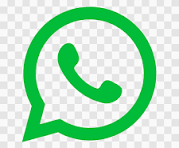
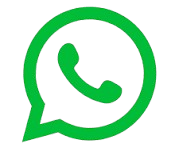
update lagi

diff --git a/admin/katalog.php b/admin/katalog.php
@@ -11,6 +11,27 @@ if (!is_dir('../assets/uploads')) {
     mkdir('../assets/uploads', 0777, true);
 }
 
+// --- LOGIKA TAMBAH KATEGORI BARU ---
+if (isset($_POST['add_kategori'])) {
+    $nama_kat = mysqli_real_escape_string($conn, $_POST['nama_kategori']);
+    mysqli_query($conn, "INSERT INTO kategori (nama_kategori) VALUES ('$nama_kat')");
+    echo '<script>window.location="katalog.php"</script>';
+}
+
+// --- LOGIKA HAPUS KATEGORI (TAMBAHAN PENTING) ---
+if (isset($_GET['hapus_kat'])) {
+    $id_kat = $_GET['hapus_kat'];
+    // Cek dulu apakah kategori ini masih dipakai oleh produk
+    $cek_produk = mysqli_query($conn, "SELECT id FROM katalog_produk WHERE kategori = '$id_kat'");
+    if(mysqli_num_rows($cek_produk) > 0) {
+        echo '<script>alert("Kategori gagal dihapus karena masih digunakan oleh produk!"); window.location="katalog.php"</script>';
+    } else {
+        mysqli_query($conn, "DELETE FROM kategori WHERE id = '$id_kat'");
+        echo '<script>window.location="katalog.php"</script>';
+    }
+}
+
+// --- LOGIKA TAMBAH PRODUK ---
 if (isset($_POST['submit_katalog'])) {
     $nama = mysqli_real_escape_string($conn, $_POST['nama_produk']);
     $kategori = mysqli_real_escape_string($conn, $_POST['kategori']);
@@ -38,6 +59,7 @@ if (isset($_POST['submit_katalog'])) {
     }
 }
 
+// --- LOGIKA HAPUS PRODUK ---
 if (isset($_GET['hapus'])) {
     $id_hapus = $_GET['hapus'];
     $produk = mysqli_query($conn, "SELECT gambar FROM katalog_produk WHERE id = '$id_hapus'");
@@ -98,11 +120,8 @@ if (isset($_GET['hapus'])) {
                 <h2 class="text-xl font-bold text-gray-800">Kelola Katalog Produk</h2>
                 <p class="text-sm text-gray-500">Tambah atau hapus etalase produk SOTHO</p>
             </div>
-            <div class="flex items-center bg-gray-50 px-4 py-2 rounded-full border border-gray-200">
-                <div class="w-8 h-8 bg-red-600 rounded-full flex items-center justify-center text-white font-bold mr-3">
-                    <?php echo substr($_SESSION['admin_global']->nama_lengkap, 0, 1); ?>
-                </div>
-                <span class="font-bold text-sm text-gray-700"><?php echo $_SESSION['admin_global']->nama_lengkap; ?></span>
+            <div class="flex items-center bg-gray-50 px-6 py-2 rounded-full border border-gray-200">
+            <span class="font-bold text-sm text-gray-700 uppercase tracking-widest">ADMIN</span>
             </div>
         </header>
 
@@ -120,12 +139,18 @@ if (isset($_GET['hapus'])) {
                             <input type="text" name="nama_produk" class="w-full px-4 py-3 border border-gray-300 rounded-xl focus:ring-2 focus:ring-red-500 outline-none bg-gray-50" required placeholder="Cth: Kanal C 0.75">
                         </div>
                         <div class="mb-4">
-                            <label class="block text-gray-700 font-semibold mb-2 text-sm">Kategori</label>
-                            <select name="kategori" class="w-full px-4 py-3 border border-gray-300 rounded-xl focus:ring-2 focus:ring-red-500 outline-none bg-gray-50" required>
+                            <div class="flex justify-between items-center mb-2">
+                                <label class="block text-gray-700 font-semibold text-sm">Kategori</label>
+                                <button type="button" onclick="document.getElementById('modalKategori').style.display='flex'" class="text-blue-600 text-xs font-bold hover:underline">+ Kelola Kategori</button>
+                            </div>
+                            <select name="kategori" class="w-full px-4 py-3 border border-gray-300 rounded-xl focus:ring-2 focus:ring-red-500 outline-none bg-gray-50 cursor-pointer" required>
                                 <option value="">Pilih Kategori</option>
-                                <option value="Rangka Atap">Rangka Atap</option>
-                                <option value="Atap Spandek">Atap Spandek</option>
-                                <option value="Aksesoris">Aksesoris</option>
+                                <?php
+                                $kat = mysqli_query($conn, "SELECT * FROM kategori ORDER BY nama_kategori ASC");
+                                while($k = mysqli_fetch_array($kat)){
+                                    echo '<option value="'.$k['id'].'">'.$k['nama_kategori'].'</option>';
+                                }
+                                ?>
                             </select>
                         </div>
                         <div class="mb-4">
@@ -134,7 +159,7 @@ if (isset($_GET['hapus'])) {
                         </div>
                         <div class="mb-6">
                             <label class="block text-gray-700 font-semibold mb-2 text-sm">Upload Gambar Produk</label>
-                            <input type="file" name="gambar" class="w-full px-3 py-2 border border-gray-300 rounded-xl text-sm bg-gray-50" required accept="image/png, image/jpeg, image/jpg, image/webp">
+                            <input type="file" name="gambar" class="w-full px-3 py-2 border border-gray-300 rounded-xl text-sm bg-gray-50" required accept="image/*">
                         </div>
                         <button type="submit" name="submit_katalog" class="w-full bg-gray-900 hover:bg-gray-800 text-white font-bold py-3 rounded-xl transition duration-300 shadow">Simpan Produk</button>
                     </form>
@@ -158,7 +183,11 @@ if (isset($_GET['hapus'])) {
                             <tbody>
                                 <?php
                                 $no = 1;
-                                $produk = mysqli_query($conn, "SELECT * FROM katalog_produk ORDER BY id DESC");
+                                $sql_get = "SELECT katalog_produk.*, kategori.nama_kategori 
+                                            FROM katalog_produk 
+                                            LEFT JOIN kategori ON katalog_produk.kategori = kategori.id 
+                                            ORDER BY katalog_produk.id DESC";
+                                $produk = mysqli_query($conn, $sql_get);
                                 if (mysqli_num_rows($produk) > 0) {
                                     while ($row = mysqli_fetch_array($produk)) {
                                 ?>
@@ -169,7 +198,7 @@ if (isset($_GET['hapus'])) {
                                     </td>
                                     <td class="p-4">
                                         <p class="font-bold text-gray-800 mb-1"><?php echo $row['nama_produk']; ?></p>
-                                        <span class="bg-red-100 text-red-700 text-xs px-2 py-1 rounded font-semibold"><?php echo $row['kategori']; ?></span>
+                                        <span class="bg-blue-50 text-blue-700 text-[10px] px-2 py-1 rounded font-bold uppercase tracking-wider"><?php echo $row['nama_kategori']; ?></span>
                                     </td>
                                     <td class="p-4 text-center">
                                         <a href="?hapus=<?php echo $row['id']; ?>" onclick="return confirm('Yakin ingin menghapus produk ini?')" class="inline-block bg-red-50 text-red-600 px-4 py-2 rounded-lg hover:bg-red-600 hover:text-white text-sm font-bold transition shadow-sm">Hapus</a>
@@ -186,6 +215,39 @@ if (isset($_GET['hapus'])) {
                 </div>
             </div>
         </main>
+    </div>
+
+
+    <div id="modalKategori" class="fixed inset-0 bg-black/50 z-[100] hidden items-center justify-center p-4">
+        <div class="bg-white rounded-3xl p-8 max-w-md w-full shadow-2xl">
+            <h3 class="text-xl font-bold mb-6 flex items-center">📂 Kelola Kategori</h3>
+            
+            <div class="mb-6 max-h-48 overflow-y-auto border rounded-xl p-4 bg-gray-50">
+                <p class="text-xs font-bold text-gray-400 uppercase mb-3">Daftar Kategori Saat Ini:</p>
+                <div class="space-y-2">
+                    <?php
+                    $kat_list = mysqli_query($conn, "SELECT * FROM kategori ORDER BY nama_kategori ASC");
+                    while($kl = mysqli_fetch_array($kat_list)){
+                    ?>
+                    <div class="flex justify-between items-center bg-white p-2 rounded-lg border shadow-sm">
+                        <span class="text-sm font-medium text-gray-700"><?php echo $kl['nama_kategori']; ?></span>
+                        <a href="?hapus_kat=<?php echo $kl['id']; ?>" onclick="return confirm('Hapus kategori ini?')" class="text-red-500 hover:text-red-700 p-1">
+                            🗑
+                        </a>
+                    </div>
+                    <?php } ?>
+                </div>
+            </div>
+
+            <form action="" method="POST">
+                <label class="text-xs font-bold text-gray-400 uppercase">Tambah Baru:</label>
+                <input type="text" name="nama_kategori" class="w-full px-4 py-3 border rounded-xl mb-4 mt-2 outline-none focus:ring-2 focus:ring-blue-500" placeholder="Nama kategori baru..." required>
+                <div class="flex gap-4">
+                    <button type="button" onclick="document.getElementById('modalKategori').style.display='none'" class="flex-1 bg-gray-100 py-3 rounded-xl font-bold">Tutup</button>
+                    <button type="submit" name="add_kategori" class="flex-1 bg-blue-600 text-white py-3 rounded-xl font-bold">Simpan</button>
+                </div>
+            </form>
+        </div>
     </div>
 </body>
 </html>

diff --git a/admin/index.php b/admin/index.php
@@ -109,7 +109,7 @@ $jml_proyek = mysqli_num_rows(mysqli_query($conn, "SELECT id FROM portofolio_pro
 
     <aside class="w-64 bg-gray-900 text-white flex flex-col shadow-2xl hidden md:flex z-20 shrink-0">
         <div class="h-20 flex items-center justify-center border-b border-gray-800">
-            <h1 class="text-2xl font-black tracking-wider">NIM<span class="text-red-500">ADMIN</span></h1>
+            <h1 class="text-2xl font-black tracking-wider">NIM<span class="text-red-500"> ADMIN</span></h1>
         </div>
         <div class="flex-1 overflow-y-auto py-6 px-4 space-y-2">
             <p class="text-xs font-bold text-gray-500 uppercase tracking-widest mb-4 ml-2">Menu Utama</p>
@@ -141,11 +141,8 @@ $jml_proyek = mysqli_num_rows(mysqli_query($conn, "SELECT id FROM portofolio_pro
                 <h2 class="text-xl font-bold text-gray-800">Dashboard Overview</h2>
                 <p class="text-sm text-gray-500">Pusat Kendali Website PT Nusa Indah Metalindo</p>
             </div>
-            <div class="flex items-center bg-gray-50 px-4 py-2 rounded-full border border-gray-200">
-                <div class="w-8 h-8 bg-red-600 rounded-full flex items-center justify-center text-white font-bold mr-3">
-                    <?php echo substr($_SESSION['admin_global']->nama_lengkap, 0, 1); ?>
-                </div>
-                <span class="font-bold text-sm text-gray-700"><?php echo $_SESSION['admin_global']->nama_lengkap; ?></span>
+            <div class="flex items-center bg-gray-50 px-6 py-2 rounded-full border border-gray-200">
+            <span class="font-bold text-sm text-gray-700 uppercase tracking-widest">ADMIN</span>
             </div>
         </header>
 
@@ -209,7 +206,7 @@ $jml_proyek = mysqli_num_rows(mysqli_query($conn, "SELECT id FROM portofolio_pro
                                 <input type="text" name="link_wa" value="<?php echo $data_web->link_wa; ?>" class="w-full px-4 py-2 border rounded-xl focus:ring-2 focus:ring-red-500 outline-none bg-gray-50 text-sm">
                             </div>
                             <div>
-                                <label class="block text-gray-700 font-bold mb-2 text-sm">Email Perusahaan (mailto:...)</label>
+                                <label class="block text-gray-700 font-bold mb-2 text-sm">Email Perusahaan</label>
                                 <input type="text" name="link_email" value="<?php echo $data_web->link_email; ?>" class="w-full px-4 py-2 border rounded-xl focus:ring-2 focus:ring-red-500 outline-none bg-gray-50 text-sm">
                             </div>
                         </div>

diff --git a/admin/portofolio.php b/admin/portofolio.php
@@ -92,11 +92,8 @@ if (isset($_GET['hapus'])) {
                 <h2 class="text-xl font-bold text-gray-800">Kelola Portofolio Proyek</h2>
                 <p class="text-sm text-gray-500">Unggah foto proyek sebagai bukti kredibilitas</p>
             </div>
-            <div class="flex items-center bg-gray-50 px-4 py-2 rounded-full border border-gray-200">
-                <div class="w-8 h-8 bg-red-600 rounded-full flex items-center justify-center text-white font-bold mr-3">
-                    <?php echo substr($_SESSION['admin_global']->nama_lengkap, 0, 1); ?>
-                </div>
-                <span class="font-bold text-sm text-gray-700"><?php echo $_SESSION['admin_global']->nama_lengkap; ?></span>
+            <div class="flex items-center bg-gray-50 px-6 py-2 rounded-full border border-gray-200">
+            <span class="font-bold text-sm text-gray-700 uppercase tracking-widest">ADMIN</span>
             </div>
         </header>
 

diff --git a/admin/cabang.php b/admin/cabang.php
@@ -74,11 +74,8 @@ if (isset($_GET['hapus'])) {
                 <h2 class="text-xl font-bold text-gray-800">Kelola Kantor Cabang</h2>
                 <p class="text-sm text-gray-500">Atur alamat cabang untuk ditampilkan di footer</p>
             </div>
-            <div class="flex items-center bg-gray-50 px-4 py-2 rounded-full border border-gray-200">
-                <div class="w-8 h-8 bg-red-600 rounded-full flex items-center justify-center text-white font-bold mr-3">
-                    <?php echo substr($_SESSION['admin_global']->nama_lengkap, 0, 1); ?>
-                </div>
-                <span class="font-bold text-sm text-gray-700"><?php echo $_SESSION['admin_global']->nama_lengkap; ?></span>
+            <div class="flex items-center bg-gray-50 px-6 py-2 rounded-full border border-gray-200">
+            <span class="font-bold text-sm text-gray-700 uppercase tracking-widest">ADMIN</span>
             </div>
         </header>
 

diff --git a/index.php b/index.php
@@ -389,8 +389,8 @@ if(!$data_web) {
         initSlider('.tentang-slide', 4000);
     </script>
 
-    <a href="<?php echo $data_web->link_wa; ?>" target="_blank" class="fixed bottom-6 right-6 z-50 bg-white p-3 rounded-full shadow-2xl hover:bg-gray-100 transition duration-300 transform hover:scale-110 flex items-center justify-center">
-        <img src="assets/wa.png" alt="WhatsApp" class="w-10 h-10 object-contain">
+    <a href="<?php echo $data_web->link_wa; ?>" target="_blank" class="fixed bottom-6 right-6 z-50 transition duration-300 transform hover:scale-110 drop-shadow-2xl flex items-center justify-center cursor-pointer">
+        <img src="assets/wa.png" alt="WhatsApp" class="w-14 h-14 object-contain mix-blend-multiply">
     </a>
 </body>
 </html>

diff --git a/admin/artikel.php b/admin/artikel.php
@@ -157,8 +157,8 @@ $page = isset($_GET['page']) ? $_GET['page'] : 'list';
                 <h2 class="text-xl font-bold text-gray-800">Kelola Artikel & Berita</h2>
                 <p class="text-sm text-gray-500">Tulis dan atur publikasi berita perusahaan</p>
             </div>
-            <div class="flex items-center bg-gray-50 px-4 py-2 rounded-full border border-gray-200">
-                <span class="font-bold text-sm text-gray-700"><?php echo $_SESSION['admin_global']->nama_lengkap; ?></span>
+            <div class="flex items-center bg-gray-50 px-6 py-2 rounded-full border border-gray-200">
+            <span class="font-bold text-sm text-gray-700 uppercase tracking-widest">ADMIN</span>
             </div>
         </header>
 
